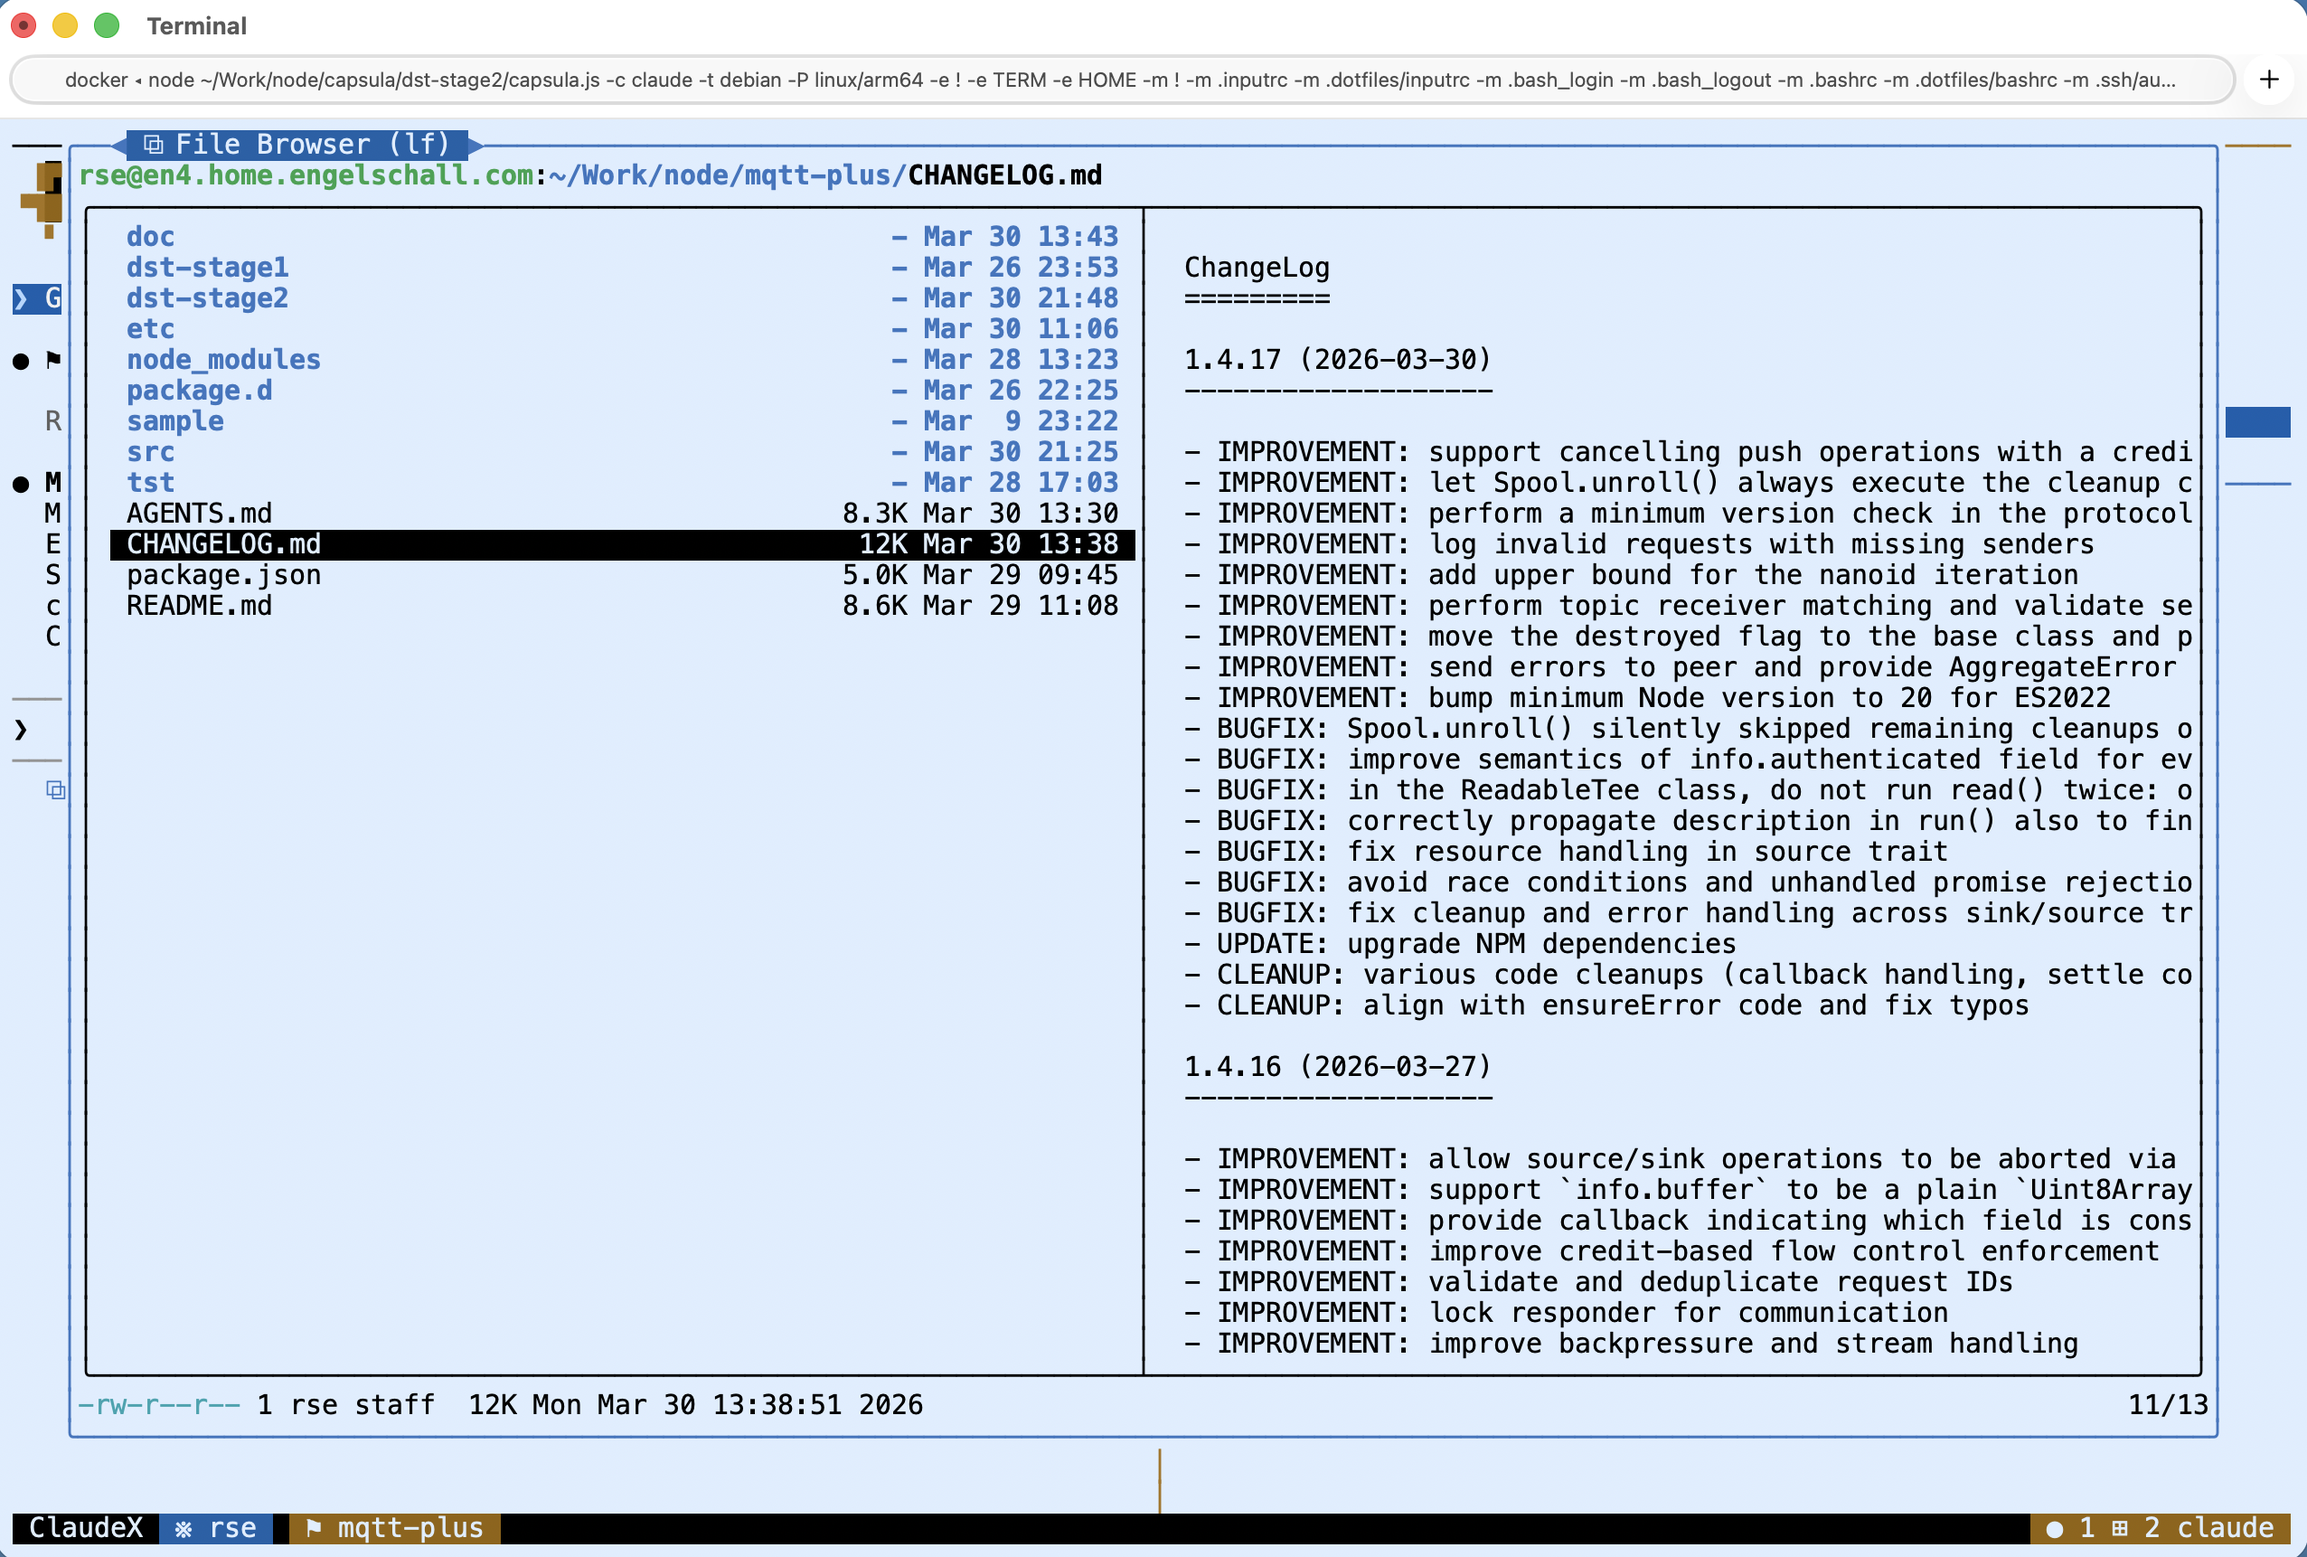
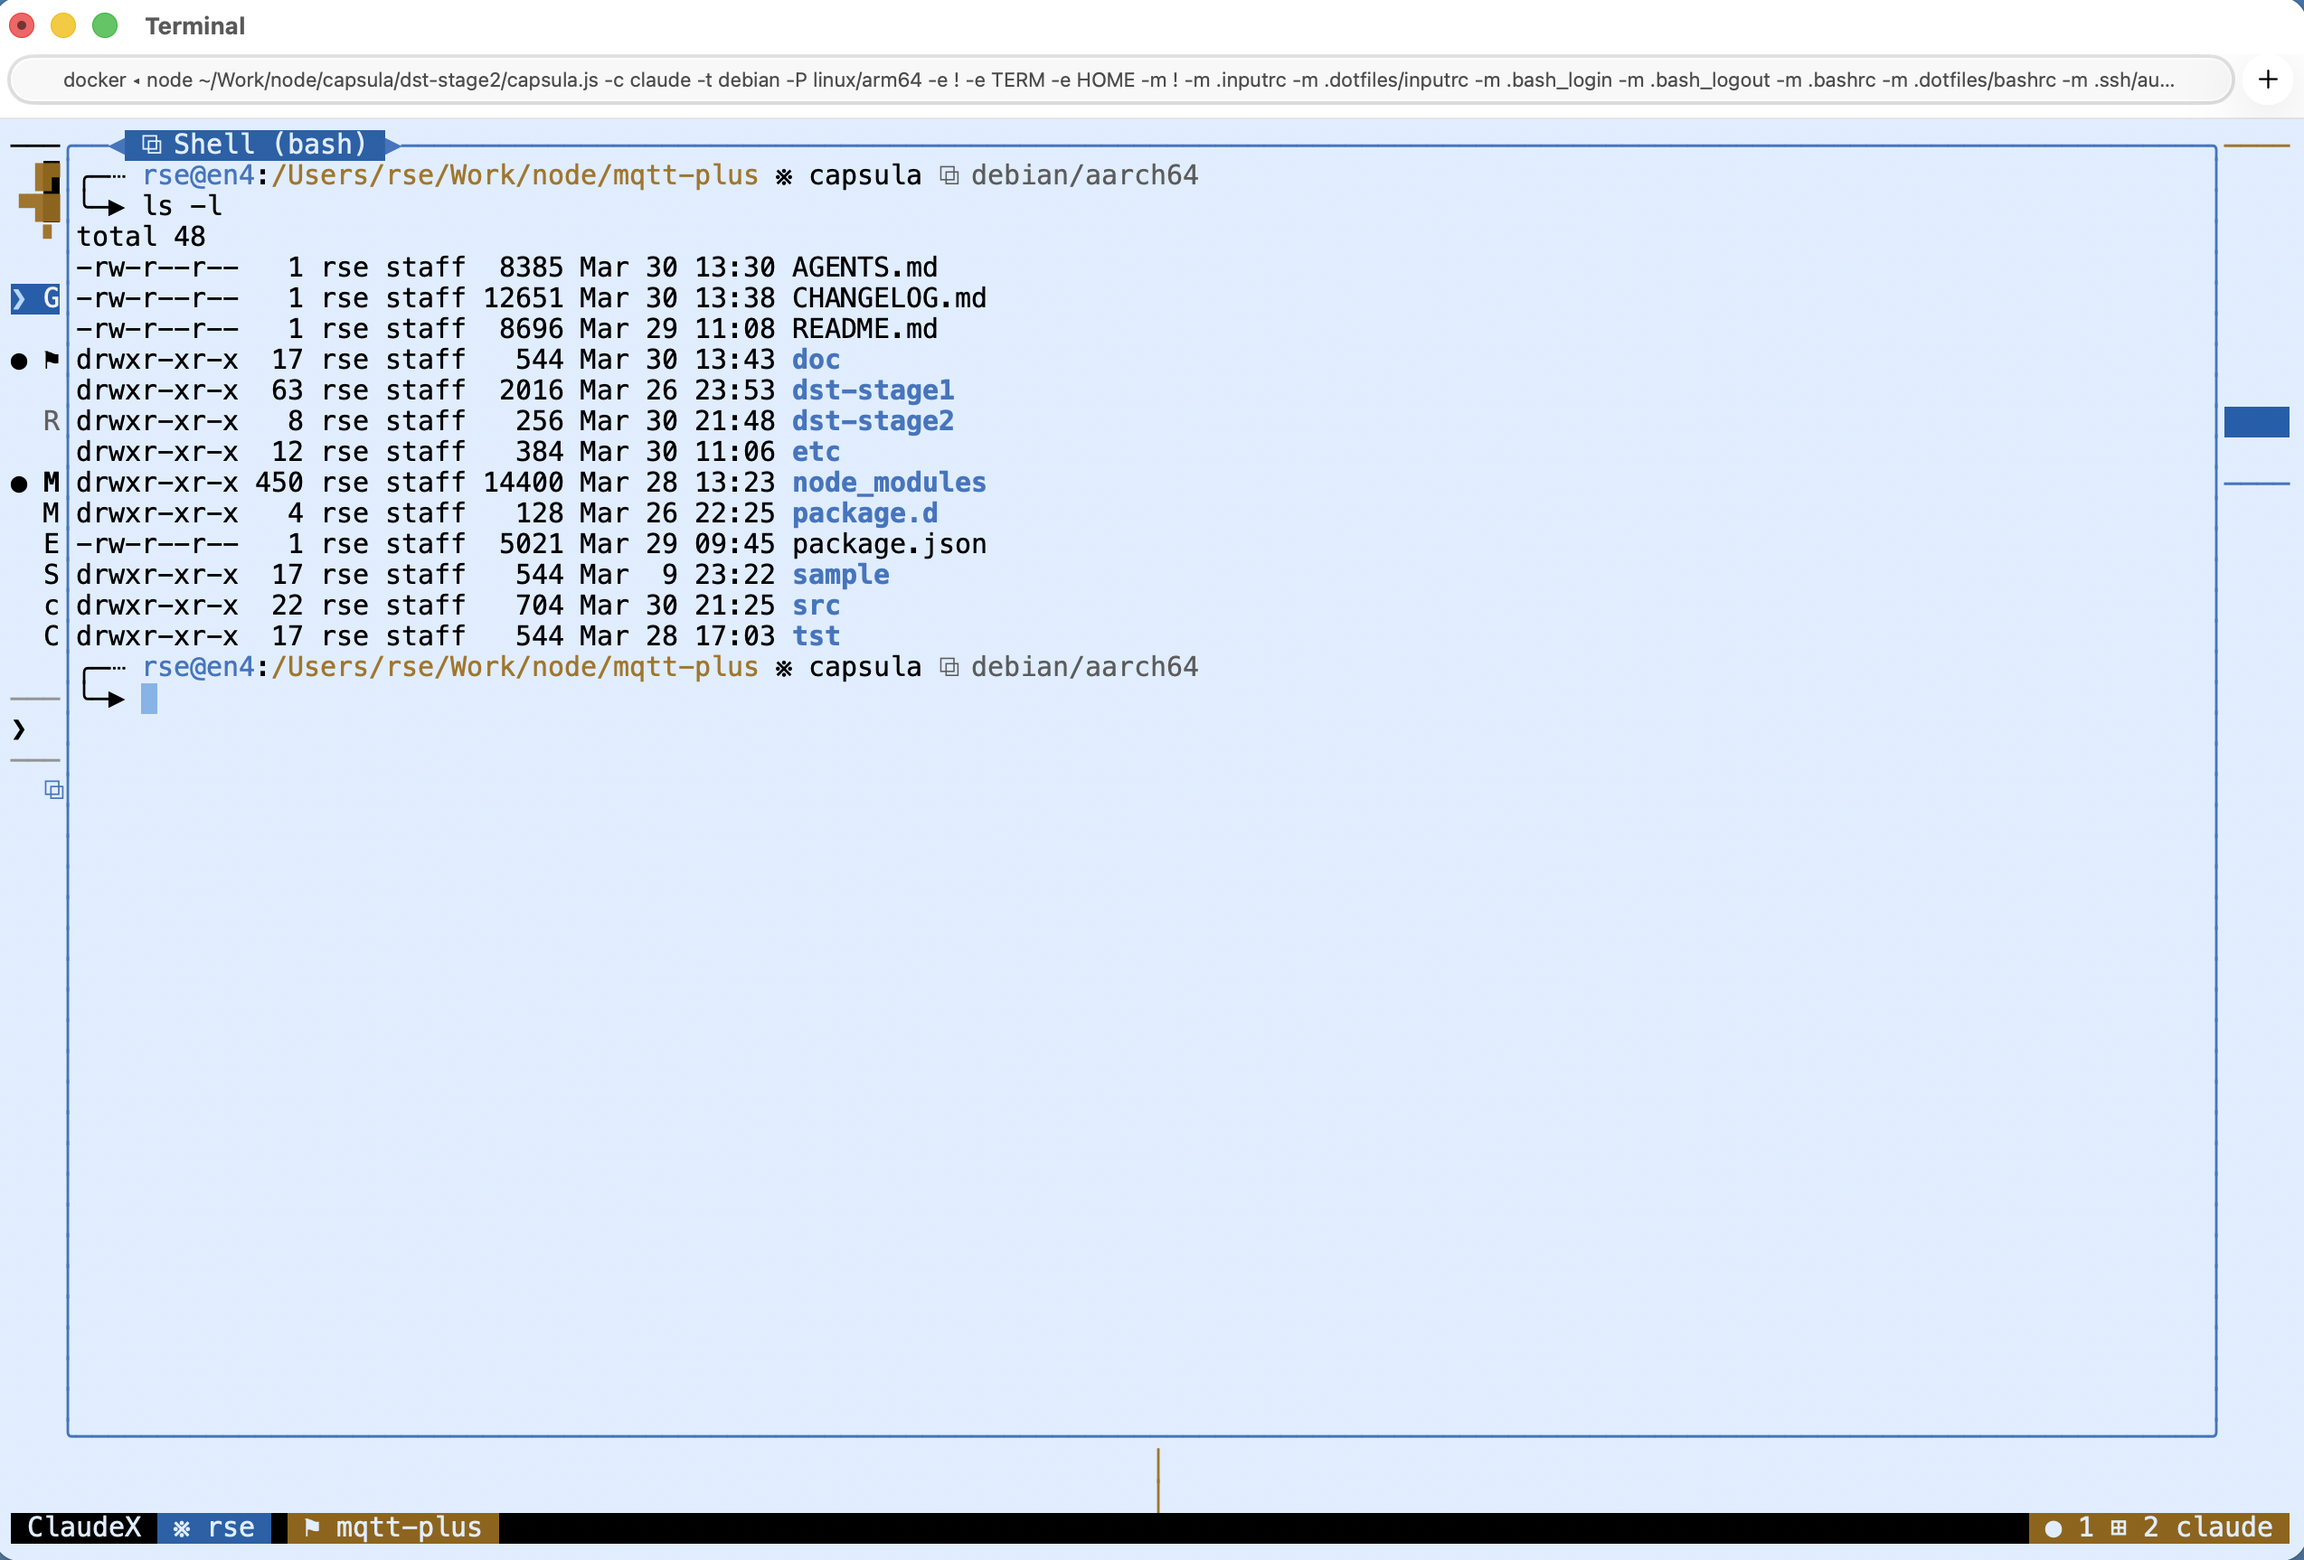
remove LF tool for now to make claudeX more portable

diff --git a/claudex.ts b/claudex.ts
@@ -143,8 +143,8 @@ const main = async (): Promise<void> => {
                 await self("shell", "-s", "sudo", "-E", "apt", "update", "-qq")
                 await self("shell", "-s", "sudo", "-E", "apt", "upgrade", "-qq", "-y")
 
-                info("install Tmux / LF / LazyGit / Git")
-                await self("shell", "-s", "sudo", "-E", "apt", "install", "-qq", "-y", "tmux", "lf", "lazygit", "git")
+                info("install Tmux / LazyGit / Git")
+                await self("shell", "-s", "sudo", "-E", "apt", "install", "-qq", "-y", "tmux", "lazygit", "git")
 
                 info("install Node.js")
                 await self("shell", "-s", "sudo", "-E", "bash", "-c", "curl -fsSL https://deb.nodesource.com/setup_24.x | bash -")
@@ -171,7 +171,6 @@ const main = async (): Promise<void> => {
                     ensureTool("tmux", { hint: "https://github.com/tmux/tmux/" })
                 else
                     ensureTool("tmux", { hint: "https://github.com/psmux/psmux" })
-                ensureTool("lf", { hint: "https://github.com/gokcehan/lf/" })
                 ensureTool("lazygit", { hint: "https://github.com/jesseduffield/lazygit/" })
                 ensureTool("git", { hint: "https://git-scm.com" })
                 ensureTool("node", { hint: "https://nodejs.org" })
@@ -543,24 +542,8 @@ const main = async (): Promise<void> => {
                             "-T", "─◀#[reverse] ⧉ Version Control (lazygit) #[noreverse]▶", `${selfPath} util lazygit`, ";",
                         "bind-key", "b", "display-popup", "-E", "-w", "95%", "-h", "95%",
                             "-T", "─◀#[reverse] ⧉ Shell (bash) #[noreverse]▶",              `${selfPath} util bash`, ";",
-                        "bind-key", "f", "display-popup", "-E", "-w", "95%", "-h", "95%",
-                            "-T", "─◀#[reverse] ⧉ File Browser (lf) #[noreverse]▶",         `${selfPath} util lf`, ";",
                         "bind-key", "q", "display-popup", "-E", "-w", "95%", "-h", "95%",
                             "-T", "─◀#[reverse] ⧉ Task Edit (ase task edit) #[noreverse]▶", `${selfPath} util ase-task-edit`, ";",
-                        ...argv
-                    ])
-                    break
-                }
-                case "lf": {
-                    ensureTool("ansi-recolor")
-                    ensureTool("lf")
-                    ensureTool("vim")
-                    await execInherit("ansi-recolor", [
-                        "-c", path.join(basedir, "ansi-recolor.conf"),
-                        "-m",
-                        "-n", "lf",
-                        "-t", path.join(HOME, "ansi-recolor.txt"),
-                        "lf", "-config", path.join(basedir, "lf.conf"),
                         ...argv
                     ])
                     break

diff --git a/README.md b/README.md
@@ -37,8 +37,7 @@ Claude Code command:
 - **Companion Tools**: It allows you to execute (visually in a modal window on top
   of Claude Code with the help of tmux popups) the companion tools
   [LazyGit](https://github.com/jesseduffield/lazygit) (for Git version
-  control), [LF](https://github.com/gokcehan/lf) (for Filesystem
-  Browsing), and [Bash](https://www.gnu.org/software/bash/)
+  control) and [Bash](https://www.gnu.org/software/bash/)
   (for Shell).
 
   *Rationale*: The most important companion tool is LazyGit, allowing
@@ -57,13 +56,9 @@ This is with LazyGit opened in a modal window:
 
 ![screenshot](screenshot-2.png)
 
-This is with LF opened in a modal window:
-
-![screenshot](screenshot-3.png)
-
 This is with Bash opened in a modal window:
 
-![screenshot](screenshot-4.png)
+![screenshot](screenshot-3.png)
 
 Installation
 ------------
